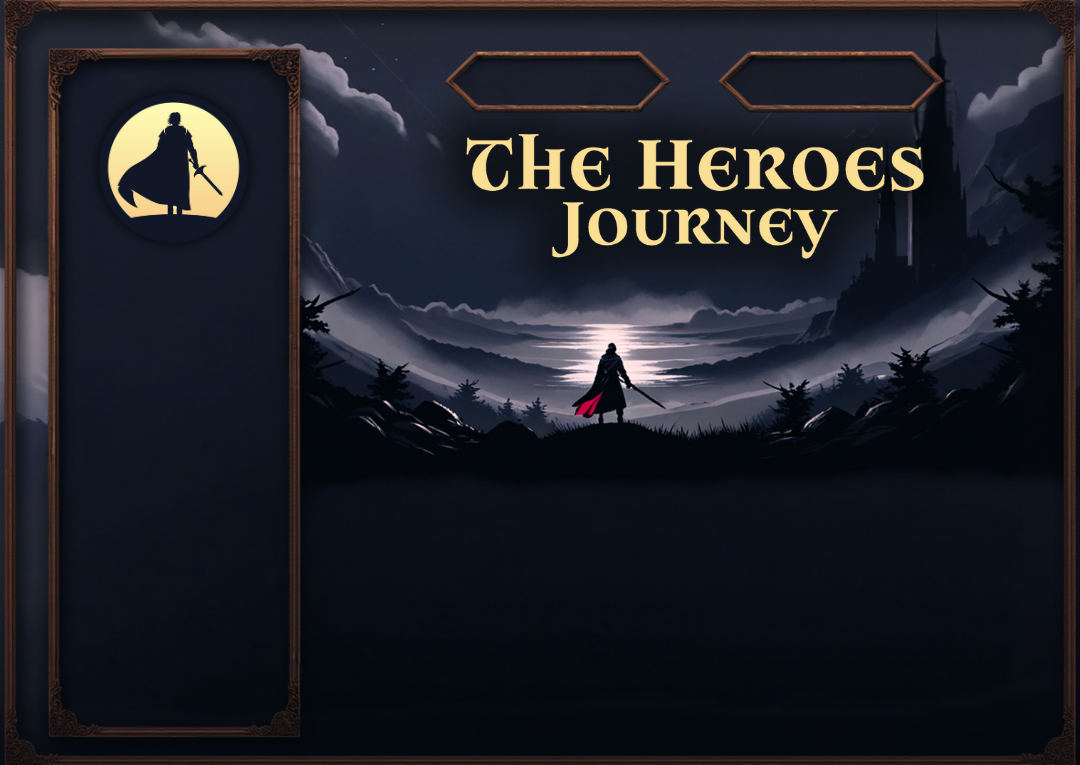
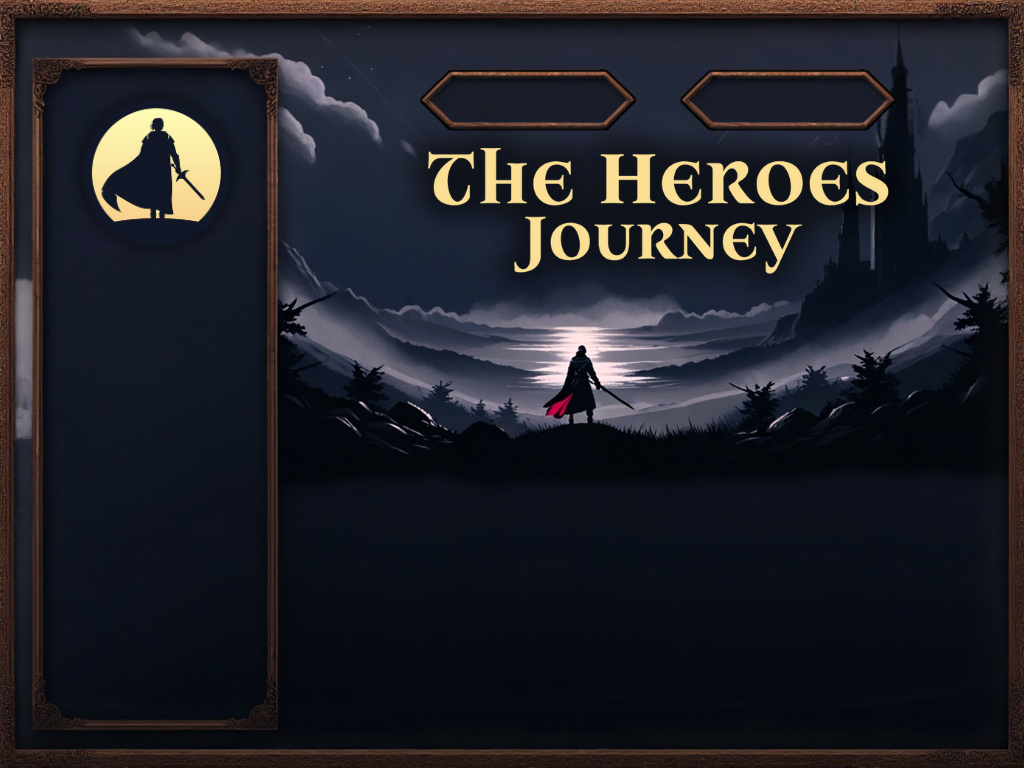
fix background

Changed region(s): [[0.0, 0.0, 1.0, 1.0], [0.4688, 0.3908, 0.7812, 0.5712], [0.3125, 0.451, 0.4688, 0.5712]]

diff --git a/THJPatcher/THJPatcher/MainWindow.xaml b/THJPatcher/THJPatcher/MainWindow.xaml
@@ -155,7 +155,7 @@
                  FontSize="16"
                  FontWeight="Bold"
                  Foreground="#FAE7A1"
-                 Margin="40,30,0,0"
+                 Margin="37,50,0,0"
                  TextAlignment="Center"
                  LineHeight="20"
                  Panel.ZIndex="1000"
@@ -172,7 +172,7 @@
                  FontSize="16"
                  FontWeight="Bold"
                  Foreground="#FAE7A1"
-                 Margin="560,30,0,0"
+                 Margin="560,50,0,0"
                  TextAlignment="Center"
                  LineHeight="20"
                  Panel.ZIndex="1000"
@@ -187,7 +187,7 @@
                     Orientation="Vertical" 
                     HorizontalAlignment="Left"
                     VerticalAlignment="Top"
-                    Margin="85,-270,0,0">
+                    Margin="75,-270,0,0">
             
             <!-- Links Section -->
             <StackPanel Margin="0,0,0,0">
